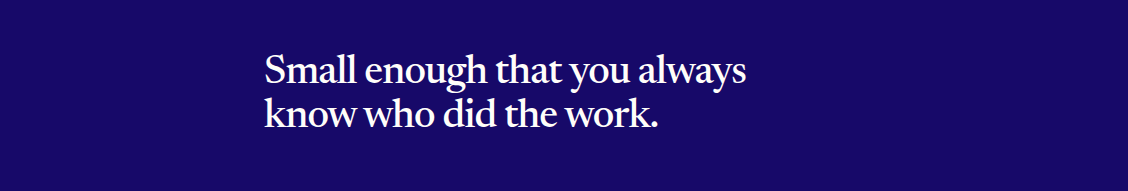
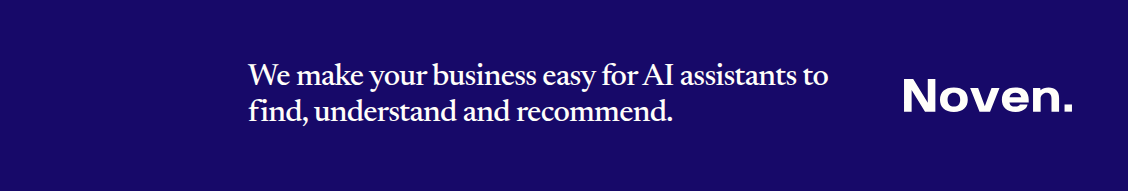
Put the wordmark on the LinkedIn cover, and say what we sell on it
The cover said "Small enough that you always know who did the work."
True, and it is the site's own sentence, but it answers who are you when
a banner should answer what do you offer. It now carries the homepage's
summary of the service instead — "We make your business easy for AI
assistants to find, understand and recommend" — verbatim bar the pronoun,
so it cannot drift from the site.

The full wordmark now appears, on the cover rather than in the logo slot.
That was decided by rendering all three candidates at 48px, the size
LinkedIn shows a company logo at in the feed: the disc stays legible, the
wordmark on navy goes cramped, and the wordmark on warm white nearly
vanishes because LinkedIn's feed background is white too. The cover is
1128x191, which is the shape a horizontal wordmark was drawn for, so it
goes there — right-aligned, because the badge overlaps the bottom-left
and the right edge is the one part of the strip that can never be
covered whatever the crop does on a phone.

The wordmark is site/public/logo-dark.svg placed as-is at full opacity,
sized off its own viewBox ratio, the same way the og card uses it.

Claude-Session: https://claude.ai/code/session_01JLfYZLxj8MLRVAQ5zqTcSt

Changed region(s): [[0.2172, 0.288, 0.7447, 0.6806], [0.7757, 0.4188, 0.9619, 0.6021]]

diff --git a/assets/linkedin/cover.html b/assets/linkedin/cover.html
@@ -1,10 +1,10 @@
 <!doctype html>
-<!-- The company page cover, 1128x191. Composed from the same three materials
-     as the link-preview card in ../og/: brand navy #170969, warm white
-     #fffefa, and one of the site's own statement lines in the Newsreader the
-     site sets it in. The font is the copy already vendored for the og card,
-     so this render doesn't depend on the network either. Rendered to
-     cover-1128x191.png by render.mjs. -->
+<!-- The company page cover, 1128x191. Composed from the same materials as the
+     link-preview card in ../og/: brand navy #170969, warm white #fffefa, the
+     committed wordmark placed as-is, and one of the site's own sentences in
+     the Newsreader the site sets its display type in. The font is the copy
+     already vendored for the og card, so this render doesn't touch the
+     network. Rendered to cover-1128x191.png by render.mjs. -->
 <html lang="en-GB">
   <head>
     <meta charset="utf-8" />
@@ -28,36 +28,45 @@
         overflow: hidden;
       }
 
-      /* The logo badge overlaps the bottom-left of the cover on a company
-         page, and LinkedIn trims the strip differently on a phone than on a
-         desktop. So the type sits inside the middle, with the left kept clear
-         for the badge and room to spare on the right. */
+      /* The left is kept clear because the logo badge overlaps the bottom-left
+         of the cover on a company page. The sentence leads and the wordmark
+         signs off at the right edge — the one part of the strip the badge can
+         never cover, whatever LinkedIn does to the crop on a phone. */
       body {
         background: #170969;
         display: flex;
         align-items: center;
-        padding: 0 72px 0 264px;
+        justify-content: space-between;
+        gap: 44px;
+        padding: 0 56px 0 248px;
       }
 
-      /* The About page's statement line, in the site's own face and tracking,
-         sized to the strip. Not the homepage headline: LinkedIn sets the
-         page's tagline directly beneath the cover, and that tagline already
-         ends "…ask an AI who to use", so the headline would have stacked the
-         same phrase twice. This line says the thing the rest of the header
-         doesn't — what kind of outfit is behind it — and it is the site's own
-         sentence, not a new one written for LinkedIn. */
+      /* The site's own summary of the service, in the site's face and
+         tracking. Not the homepage headline: LinkedIn prints the page tagline
+         directly beneath the cover, and that tagline already ends "…ask an AI
+         who to use" — the headline ends the same way, so the two stacked the
+         same phrase twice an inch apart. */
       p {
         font-family: 'Newsreader', serif;
         font-weight: 500;
-        font-size: 40px;
-        line-height: 1.1;
+        font-size: 31px;
+        line-height: 1.14;
         letter-spacing: -0.024em;
         color: #fffefa;
-        text-wrap: balance;
+      }
+
+      /* The shipped web asset, as-is. Height derived from its own viewBox
+         ratio (1193.92 : 236.39), so the mark is scaled, never reshaped. */
+      .wordmark {
+        width: 168px;
+        height: 33.26px;
+        flex: none;
+        display: block;
       }
     </style>
   </head>
   <body>
-    <p>Small enough that you always know who did the work.</p>
+    <p>We make your business easy for AI assistants to find, understand and recommend.</p>
+    <img class="wordmark" src="../../site/public/logo-dark.svg" alt="" />
   </body>
 </html>

diff --git a/assets/linkedin/README.md b/assets/linkedin/README.md
@@ -22,30 +22,41 @@ as they were supplied, never redrawn or retyped, so:
   meets all four edges. That way a circular mask fills completely and a square
   one reads as the disc it is. The corners are left transparent rather than
   filled white, so LinkedIn's own mask can sit wherever it likes.
-- **The cover** is brand navy `#170969`, warm white `#fffefa`, and one
-  sentence, set in the same Newsreader 500 the site sets its display type in.
-  The font is the copy already vendored at `../og/fonts/` for the og card, so
-  neither render touches the network.
+- **The cover** is brand navy `#170969`, warm white `#fffefa`, the committed
+  wordmark (`site/public/logo-dark.svg`, referenced as-is like the og card
+  does) and one sentence, set in the same Newsreader 500 the site sets its
+  display type in. The font is the copy already vendored at `../og/fonts/` for
+  the og card, so neither render touches the network.
 
-The sentence is **"Small enough that you always know who did the work."** — the
-statement line from the site's About page, quoted rather than written fresh.
-Two deliberate choices behind that:
+The sentence is **"We make your business easy for AI assistants to find,
+understand and recommend."** — the site's own summary of the service, from the
+homepage, verbatim bar the pronoun. It is the answer to what Noven sells, and
+because it *is* the site's sentence it can't drift from it.
 
-- **It isn't the homepage headline**, which is what the og card carries.
-  LinkedIn prints the page's tagline immediately under the cover, and that
-  tagline already ends *"…ask an AI who to use"*. The headline ends the same
-  way, so the two would have stacked the same phrase twice, one above the
-  other. Checked in a mock-up of the page header, not guessed at.
-- **It answers the question the rest of the header doesn't.** The name says who,
-  the tagline says what you get; the one thing a stranger still wants to know
-  is what kind of outfit is behind it. The site already answers that in these
-  words, so the page and the site agree without either being edited for the
-  other.
+**It isn't the homepage headline**, which is what the og card carries. LinkedIn
+prints the page's tagline immediately under the cover, and that tagline already
+ends *"…ask an AI who to use"*. The headline ends the same way, so the two
+would have stacked the same phrase twice, one above the other. Checked in a
+mock-up of the page header, not guessed at.
 
-The left 264px of the cover is kept clear. The logo badge overlaps the
-bottom-left of the cover on a company page, and LinkedIn trims the strip
-differently on a phone than on a desktop — so the type sits inside the middle
-with room on both sides.
+## Why the wordmark is here and not in the logo slot
+
+The full wordmark belongs on the cover, and the disc keeps the logo slot. That
+isn't a taste call — the three candidates were rendered at 48px, which is the
+size LinkedIn shows a company logo at in the feed:
+
+- **The disc** stays legible. "N." is two glyphs and it holds up small.
+- **The wordmark on navy** goes cramped — six letters across 48px.
+- **The wordmark on warm white** nearly disappears, because LinkedIn's feed
+  background is white too and the tile stops reading as a tile.
+
+The cover is 1128×191, which is the shape a horizontal wordmark was drawn for,
+so it goes there instead — right-aligned, signing off after the sentence.
+
+**Why right-aligned.** The logo badge overlaps the *bottom-left* of the cover
+on a company page, so the right edge is the one part of the strip that can
+never be covered, whatever LinkedIn does to the crop on a phone. The left 248px
+is kept clear for the badge for the same reason.
 
 ## Re-rendering
 
@@ -64,6 +75,6 @@ points at, and Playwright is installed globally rather than in the repo.
 
 ## If the wording on the site changes
 
-The cover quotes the About page. If that statement line is reworded, reword it
-here and re-render, or the two stop agreeing — which is the exact fault the
-audit is paid to find on other people's businesses.
+The cover quotes the homepage's summary of the service. If that sentence is
+reworded, reword it here and re-render, or the two stop agreeing — which is the
+exact fault the audit is paid to find on other people's businesses.

diff --git a/ops/linkedin.md b/ops/linkedin.md
@@ -562,17 +562,27 @@ Per the standing rules, neither was redrawn. The logo is
 `assets/brand/Social Avatar.svg` placed as-is, scaled and cropped to the bounds
 of its own disc so the mark meets all four edges — a circular mask fills
 completely, a square one reads as the disc it is. The cover is brand navy, warm
-white, and one sentence lifted from the site's About page, set in the same
+white, the committed wordmark placed as-is, and one sentence set in the same
 Newsreader the site sets its display type in. `assets/linkedin/README.md`
 records how they were made and how to re-render them.
 
-**Why the cover doesn't say what the homepage says.** LinkedIn prints the
-tagline directly under the cover, and the tagline in 5.2 ends *"…ask an AI who
-to use"* — so does the homepage headline. Stacked, they'd say the same phrase
-twice, an inch apart. The cover carries **"Small enough that you always know
-who did the work."** instead, which is the site's own About page line and
-answers the one thing the name and the tagline don't: what kind of outfit is
-behind this. Checked against a mock-up of the page header rather than guessed.
+**The cover carries the site's own summary of the service:** *"We make your
+business easy for AI assistants to find, understand and recommend."* — the
+homepage sentence, verbatim bar the pronoun. It says what Noven sells, and
+because it is the site's sentence it can't drift from it.
+
+**Why not the homepage headline.** LinkedIn prints the tagline directly under
+the cover, and the tagline in 5.2 ends *"…ask an AI who to use"* — so does the
+headline. Stacked, they'd have said the same phrase twice, an inch apart.
+Checked against a mock-up of the page header rather than guessed.
+
+**Why the full wordmark is on the cover and not in the logo slot.** All three
+candidates were rendered at 48px, the size LinkedIn shows a company logo at in
+the feed: the disc stays legible, the wordmark on navy goes cramped, and the
+wordmark on warm white nearly vanishes against LinkedIn's white feed. So the
+disc keeps the logo slot and the wordmark sits on the cover, which is the shape
+it was drawn for — right-aligned, because the badge overlaps the bottom-left
+and the right edge is the one part that can never be covered.
 
 **The one thing to eyeball after uploading.** The composition leaves the left
 of the cover clear because the logo badge overlaps it, but LinkedIn crops

diff --git a/ROADMAP.md b/ROADMAP.md
@@ -567,12 +567,23 @@ what's next. Newest at the top.
   as a disc in a square one. `cover-1128x191.png` is brand navy, warm white and
   one sentence in the site's Newsreader — same materials, same method and same
   house pattern as the og card in `assets/og/`. Nothing was redrawn.
-- **The cover doesn't carry the homepage headline, and the reason is worth
-  keeping.** A mock-up of the page header showed LinkedIn prints the tagline
-  directly beneath the cover — and the tagline and the headline both end
-  "…ask an AI who to use". Stacked, they said the same phrase twice an inch
-  apart. The cover carries the About page's line instead, which answers the one
-  thing the name and tagline don't: what kind of outfit is behind it.
+- **The cover carries the site's own summary of the service** — "We make your
+  business easy for AI assistants to find, understand and recommend", the
+  homepage sentence verbatim bar the pronoun. Not the homepage headline: a
+  mock-up of the page header showed LinkedIn prints the tagline directly
+  beneath the cover, and the tagline and the headline both end "…ask an AI who
+  to use", so stacked they said the same phrase twice an inch apart. A first
+  attempt used the About page's "small enough that you always know who did the
+  work" — true, but it answers *who are you* when a banner should answer *what
+  do you offer*. The owner called that, and picked the summary sentence.
+- **The full wordmark goes on the cover, and the disc keeps the logo slot.**
+  Settled by rendering all three candidates at 48px, which is the size LinkedIn
+  shows a company logo at in the feed: the disc holds up, the wordmark on navy
+  goes cramped, and the wordmark on warm white nearly vanishes because
+  LinkedIn's feed background is white too. The cover is 1128×191, which is the
+  shape a horizontal wordmark was drawn for. It sits right-aligned — the badge
+  overlaps the bottom-left, so the right edge is the only part of the strip
+  that can never be covered.
 - **Found while writing it up: the profile's Noven role is probably linked to
   nothing.** LinkedIn attaches a real company page to an experience entry only
   if the page exists when you type the name; otherwise it silently keeps the
